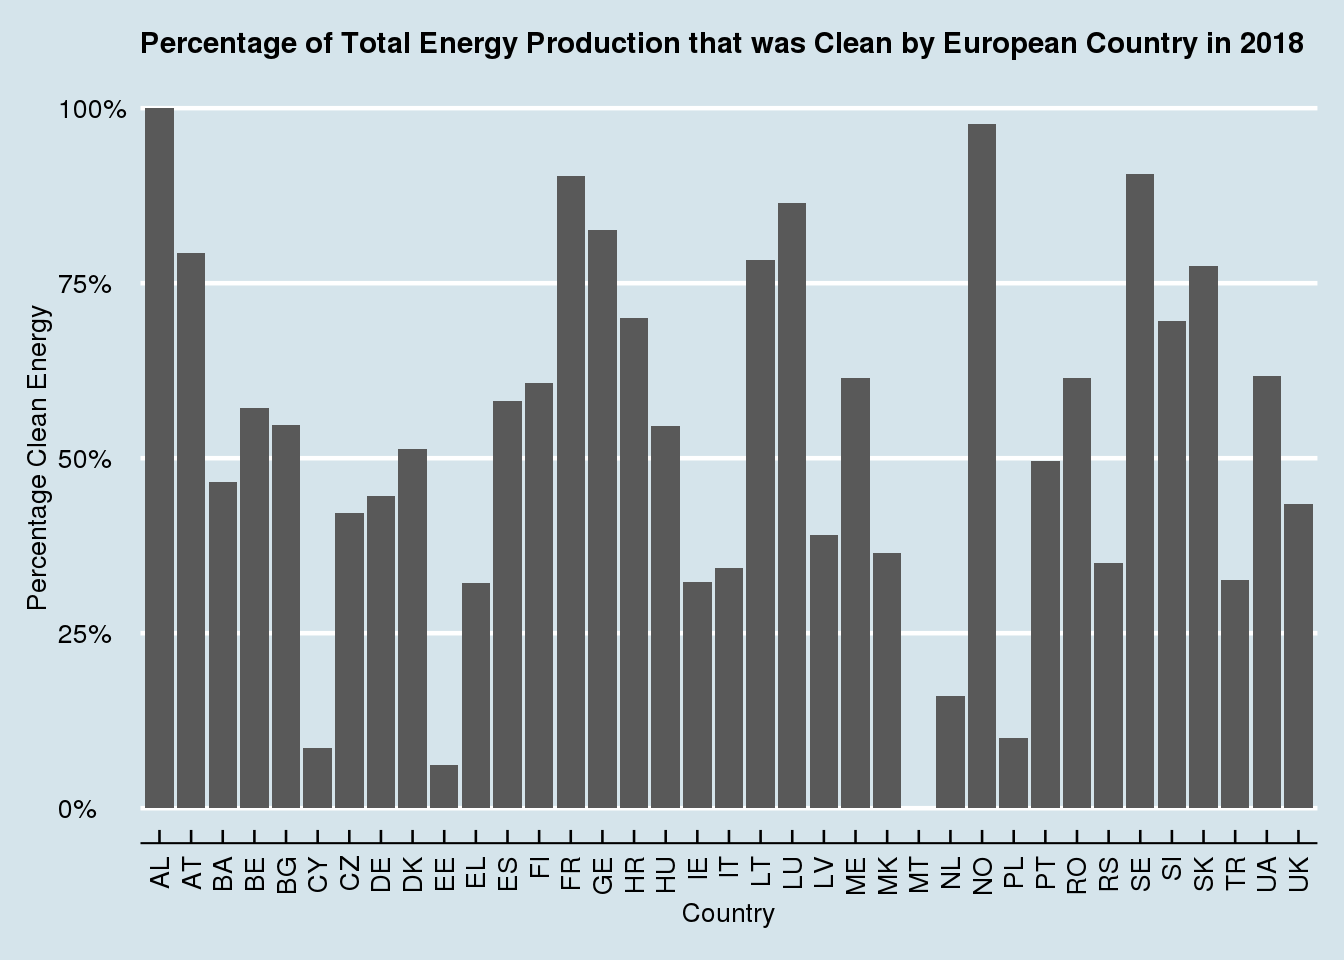
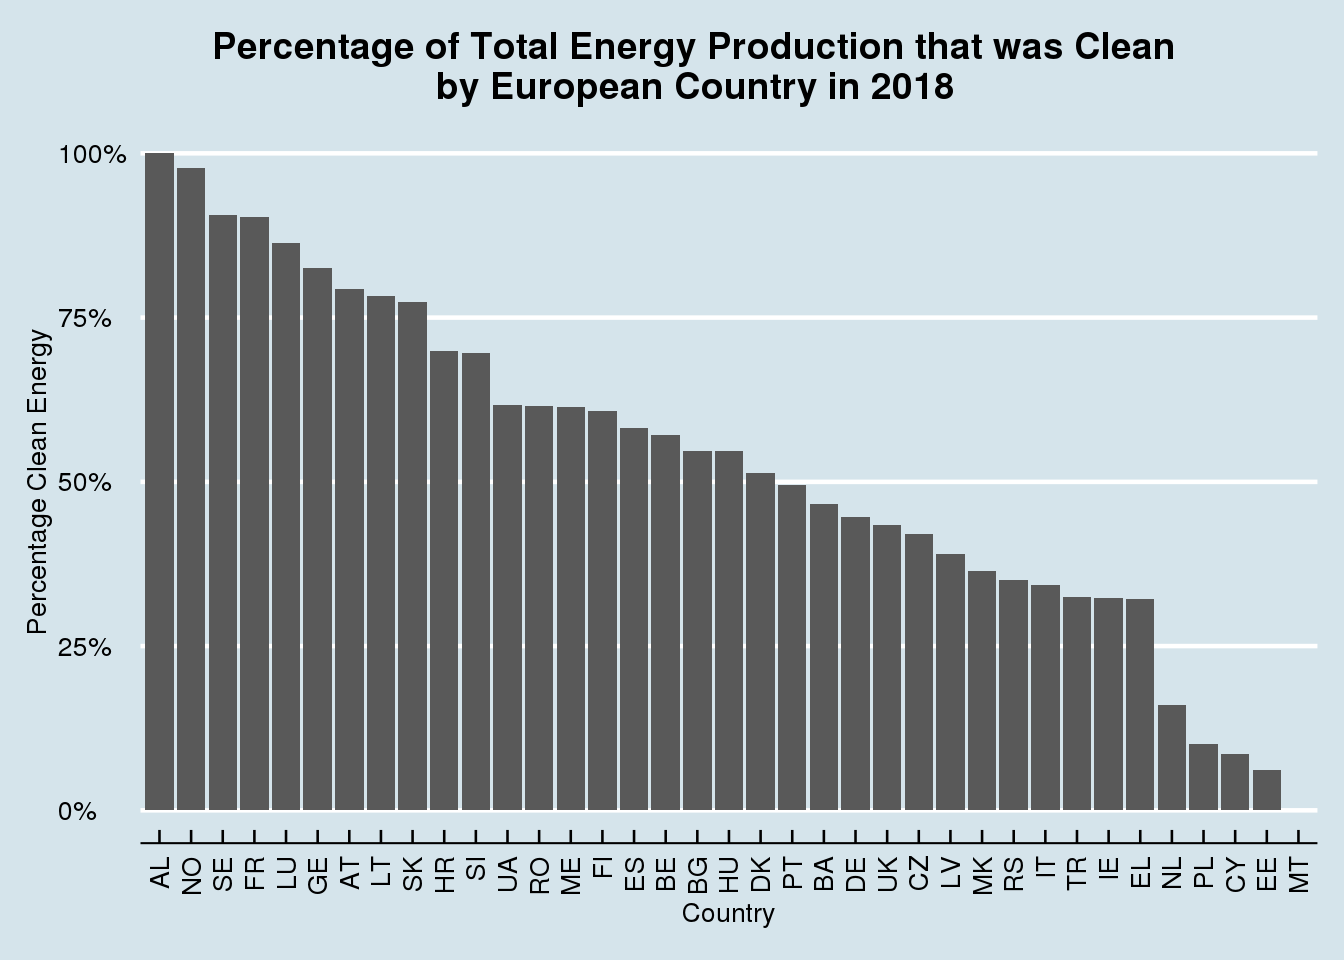
graph formatting

diff --git a/public/2020/12/08/european-energy-data-analysis/index.html b/public/2020/12/08/european-energy-data-analysis/index.html
@@ -66,7 +66,7 @@
 
   <article class="article">
     
-    <span class="article-duration">5 min read</span>
+    <span class="article-duration">6 min read</span>
     
 
     <h1 class="article-title">European Energy Data Analysis</h1>
@@ -83,7 +83,7 @@
 
 <div id="european-energy-usage-clean-energy-vs.-conventional" class="section level1">
 <h1>European Energy Usage: Clean Energy vs. Conventional</h1>
-<p>Using data that is available on the Tidy Tuesday website on European Energy, I will investigate the energy usage among European countries with an emphasis on which countries are the best at using renewable energy. I will be examining data from the <code>energy_types.csv</code> file from the Tidy Tuesday website. The data consists of 296 observations and 7 variables. The data displays each the energy production from each European country from 2016-2018 and breaks it down by how much energy was produced by conventional thermal, nuclear, hydroelectric, pumped hydroelectric, wind, solar, geothermal, and other.</p>
+<p>Using data that is available on the Tidy Tuesday website on European Energy, I will investigate the energy usage among European countries with an emphasis on which countries are the best at using renewable energy. I will be examining data from the <code>energy_types.csv</code> file from the Tidy Tuesday website. The data consists of 296 observations and 7 variables. The data displays the energy production from each European country from 2016-2018 and breaks it down by how much energy was produced by conventional thermal, nuclear, hydroelectric, pumped hydroelectric, wind, solar, geothermal, and other.</p>
 <p>The second dataset I will use to explore European Energy production is the <code>country_totals.csv</code> file from the Tidy Tuesday website. The data consists of 185 observations and 7 variables. The data displays the total energy consumption of each European country from 2016-2018 as well as the total energy production of each country.</p>
 <p>For the purposes of this blog post Renewable Energy will be hydroelectric, pumped hydroelectric, wind, solar, geothermal, and other energy productions and clean energy will be renewable energy plus nuclear energy.</p>
 </div>
@@ -118,23 +118,25 @@ data_18 &lt;- country_totals  %&gt;%
   select(1, 2, 10, 13 , 16) %&gt;%
   mutate(total_2018 = renew_2018 + conventional_2018 + nuclear_2018)</code></pre>
 <p>Next I used the dataset that I made with the summarized 2018 energy data to make 2 bar graphs that compare all the European Countries based on the percentage of their total energy output was made up of Renewable Energy and of Clean Energy in 2018, respectively.</p>
-<pre class="r"><code>ggplot(data_18, aes(x = country, y = renew_2018/total_2018)) +
+<pre class="r"><code>ggplot(data_18, aes(x = reorder(country, -renew_2018/total_2018), y = renew_2018/total_2018)) +
   geom_bar(stat = &quot;identity&quot;) +
   scale_y_continuous(labels = scales::percent) +
   labs(x = &quot;Country&quot;, y = &quot;Percentage Renewable Energy&quot;) +
-  ggtitle(&quot;Percentage of Total Energy Production that was Renewable by European Country in 2018&quot;) +
+  ggtitle(&quot;Percentage of Total Energy Production that was Renewable 
+          by European Country in 2018&quot;) +
   theme_economist() +
   theme(axis.text.x = element_text(angle = 90, hjust = 1, vjust = 0.5)) +
-  theme(plot.title = element_text(size = 11))</code></pre>
+  theme(plot.title = element_text(size = 14, hjust = 0.35))</code></pre>
 <p><img src="index_files/figure-html/unnamed-chunk-2-1.png" width="672" /></p>
-<pre class="r"><code>ggplot(data_18, aes(x = country, y = (renew_2018 + nuclear_2018)/total_2018)) +
+<pre class="r"><code>ggplot(data_18, aes(x = reorder(country, -(renew_2018 + nuclear_2018)/total_2018), y = (renew_2018 + nuclear_2018)/total_2018)) +
   geom_bar(stat = &quot;identity&quot;) +
   scale_y_continuous(labels = scales::percent) +
   labs(x = &quot;Country&quot;, y = &quot;Percentage Clean Energy&quot;) +
-  ggtitle(&quot;Percentage of Total Energy Production that was Clean by European Country in 2018&quot;) +
+  ggtitle(&quot;Percentage of Total Energy Production that was Clean 
+          by European Country in 2018&quot;) +
   theme_economist() +
   theme(axis.text.x = element_text(angle = 90, hjust = 1, vjust = 0.5)) +
-  theme(plot.title = element_text(size = 11))</code></pre>
+  theme(plot.title = element_text(size = 14, hjust = 0.35))</code></pre>
 <p><img src="index_files/figure-html/unnamed-chunk-2-2.png" width="672" />
 Albania was the country with both the highest percentage of Renewable energy and Clean energy, since 100% of their energy production was made by renewable sources. Norway was not far behind with over 90% of their energy production coming from renewable sources. Also Countries such as France and Sweden saw a large increase when comparing their Renewable Energy percentage to their Clean Energy percentage, indicating a large use of nuclear power in these countries.</p>
 </div>
@@ -170,14 +172,49 @@ big_shift</code></pre>
   geom_col() +
   scale_y_continuous(labels = scales::percent) +
   labs(x = &quot;Country&quot;, y = &quot;Percentage Shift to Renewable Energy&quot;) +
-  ggtitle(&quot;The 10 European Countries with the biggest shift towards Renewable Energy from 2016 to 2018&quot;) +
+  ggtitle(&quot;The 10 European Countries with the biggest shift towards 
+          Renewable Energy from 2016 to 2018&quot;) +
   theme_economist() +
-  theme(plot.title = element_text(size = 10, hjust = 0))</code></pre>
+  theme(plot.title = element_text(size = 14, hjust = 0.35))</code></pre>
 <p><img src="index_files/figure-html/unnamed-chunk-4-1.png" width="672" /></p>
 </div>
 <div id="question-3" class="section level1">
 <h1>Question 3</h1>
-<p>Is there a correlation between the European countries with the biggest energy outputs and using more convential thermal energy?</p>
+<p>Is there a correlation between the European countries with the biggest energy outputs and using more conventional thermal energy?</p>
+<pre class="r"><code>sort_total &lt;- country_totals  %&gt;%
+  left_join(dat, by = &quot;country&quot;) %&gt;%
+  left_join(dat2, by = &quot;country&quot;) %&gt;%
+  left_join(dat3, by = &quot;country&quot;) %&gt;%
+  filter(type == &quot;Total net production&quot;) %&gt;%
+  select(1, 2, 10, 13 , 16) %&gt;%
+  mutate(total_2018 = renew_2018 + conventional_2018 + nuclear_2018, average_prc_conventional = mean(conventional_2018)/mean(total_2018)) %&gt;%
+  arrange(desc(total_2018))
+
+top_output &lt;- sort_total[1:10, ]
+
+ggplot(sort_total, aes(x = total_2018, y = conventional_2018)) +
+  geom_point() +
+  geom_smooth(method = &quot;lm&quot;) +
+  labs(x = &quot;Total Energy Production&quot;, y = &quot;Conventional Thermal Energy Production&quot;) +
+  ggtitle(&quot;Total Energy Production vs Conventional Thermal Energy
+          Production in Europe for 2018&quot;) +
+  theme_economist() +
+  theme(plot.title = element_text(size = 14, hjust = 0.35))</code></pre>
+<p><img src="index_files/figure-html/unnamed-chunk-5-1.png" width="672" /></p>
+<pre class="r"><code>ggplot(top_output, aes(x = reorder(country, -total_2018), y = conventional_2018/total_2018)) +
+  geom_col() +
+  scale_y_continuous(labels = scales::percent) +
+  geom_hline(yintercept = 0.4499, linetype=&quot;dashed&quot;, color = &quot;red&quot;) +
+  labs(x = &quot;Country&quot;, y = &quot;Percentage Conventional Thermal Energy Production&quot;) +
+  ggtitle(&quot;Percentage Conventional Thermal Energy Production among the 
+          top 10 Energy Producing European Countries for 2018&quot;) +
+  theme_economist() +
+  theme(plot.title = element_text(size = 14, hjust = 0.35))</code></pre>
+<p><img src="index_files/figure-html/unnamed-chunk-5-2.png" width="672" /></p>
+</div>
+<div id="conclusions" class="section level1">
+<h1>Conclusions:</h1>
+<p>TBD</p>
 </div>
 
     </div>

diff --git a/content/post/2020-12-08-european-energy-data-analysis/index.html b/content/post/2020-12-08-european-energy-data-analysis/index.html
@@ -13,7 +13,7 @@ tags: []
 
 <div id="european-energy-usage-clean-energy-vs.-conventional" class="section level1">
 <h1>European Energy Usage: Clean Energy vs. Conventional</h1>
-<p>Using data that is available on the Tidy Tuesday website on European Energy, I will investigate the energy usage among European countries with an emphasis on which countries are the best at using renewable energy. I will be examining data from the <code>energy_types.csv</code> file from the Tidy Tuesday website. The data consists of 296 observations and 7 variables. The data displays each the energy production from each European country from 2016-2018 and breaks it down by how much energy was produced by conventional thermal, nuclear, hydroelectric, pumped hydroelectric, wind, solar, geothermal, and other.</p>
+<p>Using data that is available on the Tidy Tuesday website on European Energy, I will investigate the energy usage among European countries with an emphasis on which countries are the best at using renewable energy. I will be examining data from the <code>energy_types.csv</code> file from the Tidy Tuesday website. The data consists of 296 observations and 7 variables. The data displays the energy production from each European country from 2016-2018 and breaks it down by how much energy was produced by conventional thermal, nuclear, hydroelectric, pumped hydroelectric, wind, solar, geothermal, and other.</p>
 <p>The second dataset I will use to explore European Energy production is the <code>country_totals.csv</code> file from the Tidy Tuesday website. The data consists of 185 observations and 7 variables. The data displays the total energy consumption of each European country from 2016-2018 as well as the total energy production of each country.</p>
 <p>For the purposes of this blog post Renewable Energy will be hydroelectric, pumped hydroelectric, wind, solar, geothermal, and other energy productions and clean energy will be renewable energy plus nuclear energy.</p>
 </div>
@@ -48,23 +48,25 @@ data_18 &lt;- country_totals  %&gt;%
   select(1, 2, 10, 13 , 16) %&gt;%
   mutate(total_2018 = renew_2018 + conventional_2018 + nuclear_2018)</code></pre>
 <p>Next I used the dataset that I made with the summarized 2018 energy data to make 2 bar graphs that compare all the European Countries based on the percentage of their total energy output was made up of Renewable Energy and of Clean Energy in 2018, respectively.</p>
-<pre class="r"><code>ggplot(data_18, aes(x = country, y = renew_2018/total_2018)) +
+<pre class="r"><code>ggplot(data_18, aes(x = reorder(country, -renew_2018/total_2018), y = renew_2018/total_2018)) +
   geom_bar(stat = &quot;identity&quot;) +
   scale_y_continuous(labels = scales::percent) +
   labs(x = &quot;Country&quot;, y = &quot;Percentage Renewable Energy&quot;) +
-  ggtitle(&quot;Percentage of Total Energy Production that was Renewable by European Country in 2018&quot;) +
+  ggtitle(&quot;Percentage of Total Energy Production that was Renewable 
+          by European Country in 2018&quot;) +
   theme_economist() +
   theme(axis.text.x = element_text(angle = 90, hjust = 1, vjust = 0.5)) +
-  theme(plot.title = element_text(size = 11))</code></pre>
+  theme(plot.title = element_text(size = 14, hjust = 0.35))</code></pre>
 <p><img src="index_files/figure-html/unnamed-chunk-2-1.png" width="672" /></p>
-<pre class="r"><code>ggplot(data_18, aes(x = country, y = (renew_2018 + nuclear_2018)/total_2018)) +
+<pre class="r"><code>ggplot(data_18, aes(x = reorder(country, -(renew_2018 + nuclear_2018)/total_2018), y = (renew_2018 + nuclear_2018)/total_2018)) +
   geom_bar(stat = &quot;identity&quot;) +
   scale_y_continuous(labels = scales::percent) +
   labs(x = &quot;Country&quot;, y = &quot;Percentage Clean Energy&quot;) +
-  ggtitle(&quot;Percentage of Total Energy Production that was Clean by European Country in 2018&quot;) +
+  ggtitle(&quot;Percentage of Total Energy Production that was Clean 
+          by European Country in 2018&quot;) +
   theme_economist() +
   theme(axis.text.x = element_text(angle = 90, hjust = 1, vjust = 0.5)) +
-  theme(plot.title = element_text(size = 11))</code></pre>
+  theme(plot.title = element_text(size = 14, hjust = 0.35))</code></pre>
 <p><img src="index_files/figure-html/unnamed-chunk-2-2.png" width="672" />
 Albania was the country with both the highest percentage of Renewable energy and Clean energy, since 100% of their energy production was made by renewable sources. Norway was not far behind with over 90% of their energy production coming from renewable sources. Also Countries such as France and Sweden saw a large increase when comparing their Renewable Energy percentage to their Clean Energy percentage, indicating a large use of nuclear power in these countries.</p>
 </div>
@@ -100,12 +102,47 @@ big_shift</code></pre>
   geom_col() +
   scale_y_continuous(labels = scales::percent) +
   labs(x = &quot;Country&quot;, y = &quot;Percentage Shift to Renewable Energy&quot;) +
-  ggtitle(&quot;The 10 European Countries with the biggest shift towards Renewable Energy from 2016 to 2018&quot;) +
+  ggtitle(&quot;The 10 European Countries with the biggest shift towards 
+          Renewable Energy from 2016 to 2018&quot;) +
   theme_economist() +
-  theme(plot.title = element_text(size = 10, hjust = 0))</code></pre>
+  theme(plot.title = element_text(size = 14, hjust = 0.35))</code></pre>
 <p><img src="index_files/figure-html/unnamed-chunk-4-1.png" width="672" /></p>
 </div>
 <div id="question-3" class="section level1">
 <h1>Question 3</h1>
-<p>Is there a correlation between the European countries with the biggest energy outputs and using more convential thermal energy?</p>
+<p>Is there a correlation between the European countries with the biggest energy outputs and using more conventional thermal energy?</p>
+<pre class="r"><code>sort_total &lt;- country_totals  %&gt;%
+  left_join(dat, by = &quot;country&quot;) %&gt;%
+  left_join(dat2, by = &quot;country&quot;) %&gt;%
+  left_join(dat3, by = &quot;country&quot;) %&gt;%
+  filter(type == &quot;Total net production&quot;) %&gt;%
+  select(1, 2, 10, 13 , 16) %&gt;%
+  mutate(total_2018 = renew_2018 + conventional_2018 + nuclear_2018, average_prc_conventional = mean(conventional_2018)/mean(total_2018)) %&gt;%
+  arrange(desc(total_2018))
+
+top_output &lt;- sort_total[1:10, ]
+
+ggplot(sort_total, aes(x = total_2018, y = conventional_2018)) +
+  geom_point() +
+  geom_smooth(method = &quot;lm&quot;) +
+  labs(x = &quot;Total Energy Production&quot;, y = &quot;Conventional Thermal Energy Production&quot;) +
+  ggtitle(&quot;Total Energy Production vs Conventional Thermal Energy
+          Production in Europe for 2018&quot;) +
+  theme_economist() +
+  theme(plot.title = element_text(size = 14, hjust = 0.35))</code></pre>
+<p><img src="index_files/figure-html/unnamed-chunk-5-1.png" width="672" /></p>
+<pre class="r"><code>ggplot(top_output, aes(x = reorder(country, -total_2018), y = conventional_2018/total_2018)) +
+  geom_col() +
+  scale_y_continuous(labels = scales::percent) +
+  geom_hline(yintercept = 0.4499, linetype=&quot;dashed&quot;, color = &quot;red&quot;) +
+  labs(x = &quot;Country&quot;, y = &quot;Percentage Conventional Thermal Energy Production&quot;) +
+  ggtitle(&quot;Percentage Conventional Thermal Energy Production among the 
+          top 10 Energy Producing European Countries for 2018&quot;) +
+  theme_economist() +
+  theme(plot.title = element_text(size = 14, hjust = 0.35))</code></pre>
+<p><img src="index_files/figure-html/unnamed-chunk-5-2.png" width="672" /></p>
+</div>
+<div id="conclusions" class="section level1">
+<h1>Conclusions:</h1>
+<p>TBD</p>
 </div>
